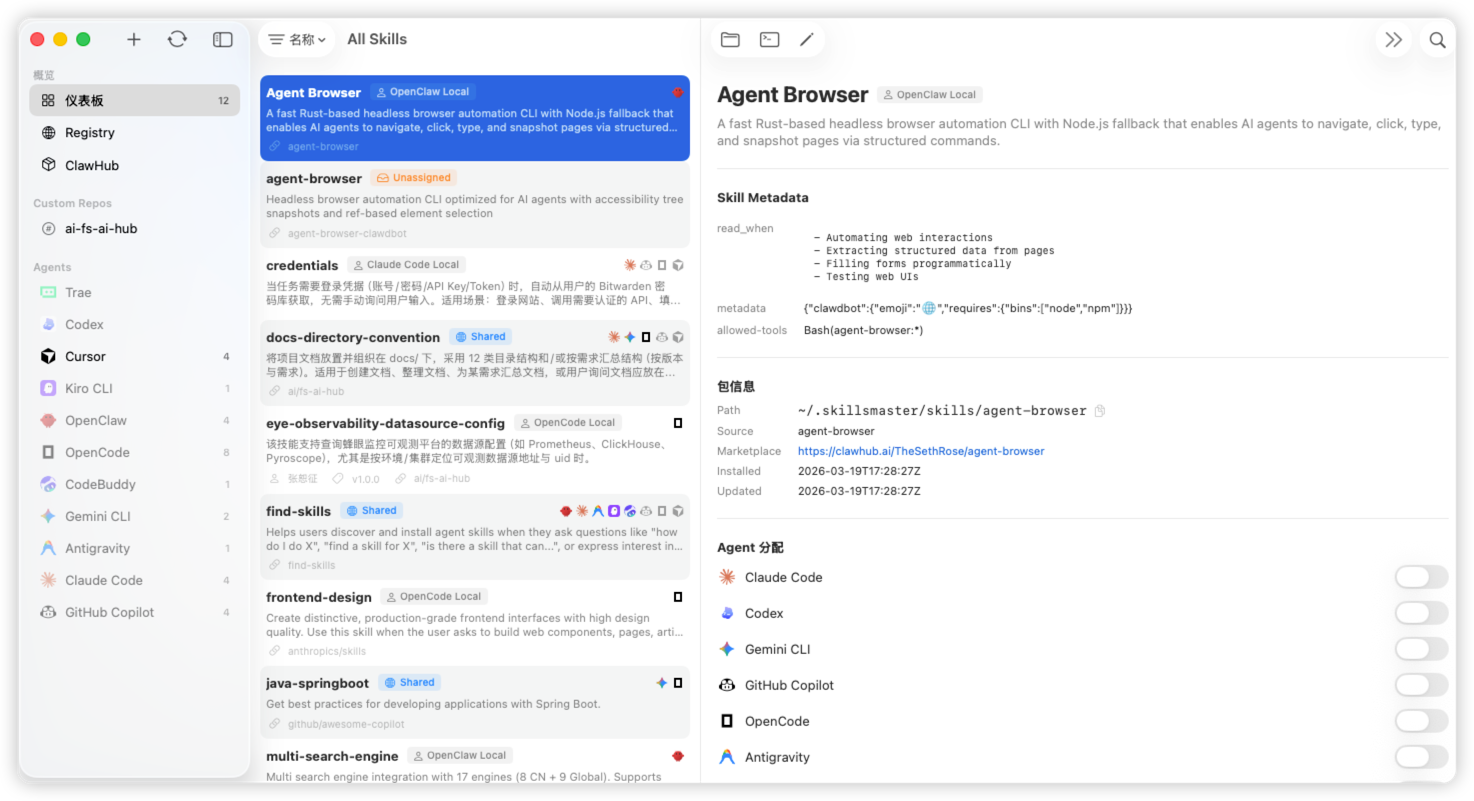
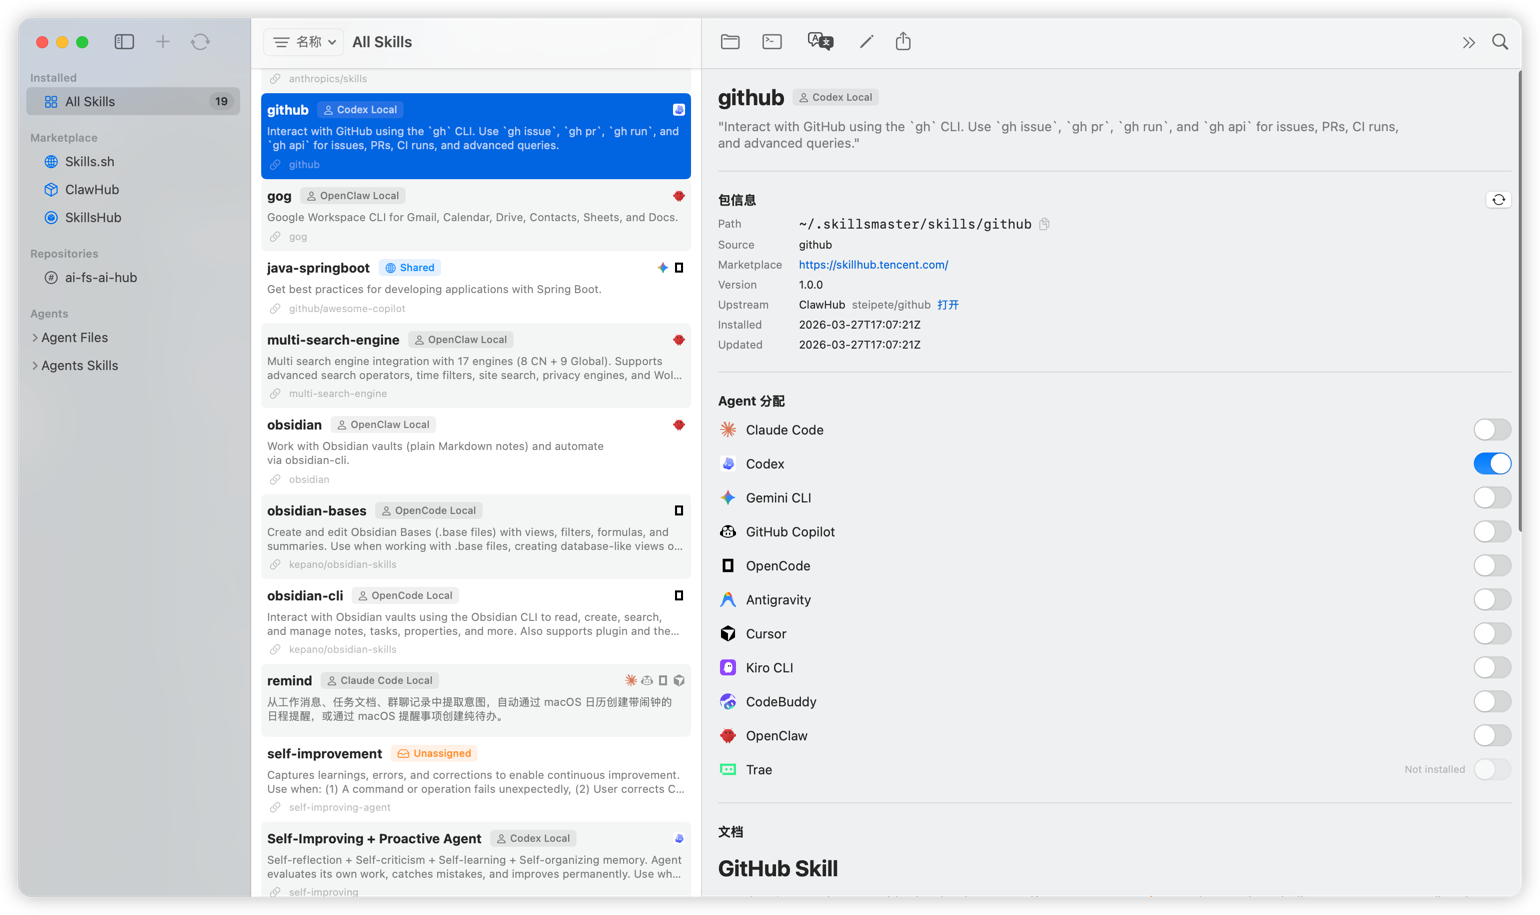
docs: refresh readme screenshots
Took 24 minutes

diff --git a/README.md b/README.md
@@ -38,6 +38,8 @@ brew tap zhls-ayl/skillsmaster
 brew install --cask skillsmaster
 ```
 
+适合大多数用户：安装路径、升级方式和卸载行为都更稳定。
+
 ### GitHub Release
 
 也可以直接从 GitHub Release 下载：
@@ -64,6 +66,8 @@ git clone https://github.com/zhls-ayl/SkillsMaster.git
 cd SkillsMaster
 ./run
 ```
+
+更适合准备参与开发、调试或验证改动的使用场景。
 
 ## 环境要求
 
@@ -119,21 +123,29 @@ SkillsMaster 当前围绕四条主要使用路径设计：
 
 ![SkillsMaster Skill 详情页](docs/screenshots/skill-detail.png)
 
-### Skills.sh 浏览页
+### Skills.sh
 
-![SkillsMaster Skills.sh 浏览页](docs/screenshots/registry-browser.png)
+![SkillsMaster Skills.sh](docs/screenshots/Skills.sh.png)
 
-### ClawHub 浏览页
+### ClawHub
 
-![SkillsMaster ClawHub 浏览页](docs/screenshots/clawhub-browser.png)
+![SkillsMaster ClawHub](docs/screenshots/clawhub.png)
 
-### Repository 设置页
+### SkillsHub
 
-![SkillsMaster Repository 设置页](docs/screenshots/repository-settings.png)
+![SkillsMaster SkillsHub](docs/screenshots/SkillsHub.png)
 
-### 内置文本编辑器
+### Repositories
 
-![SkillsMaster 内置文本编辑器](docs/screenshots/skill-editor.png)
+![SkillsMaster Repositories](docs/screenshots/Repositories.png)
+
+### Agent Files
+
+![SkillsMaster Agent Files](docs/screenshots/AgentFiles.png)
+
+### Agent Skills
+
+![SkillsMaster Agent Skills](docs/screenshots/AgentSkills.png)
 
 ## 当前边界
 
